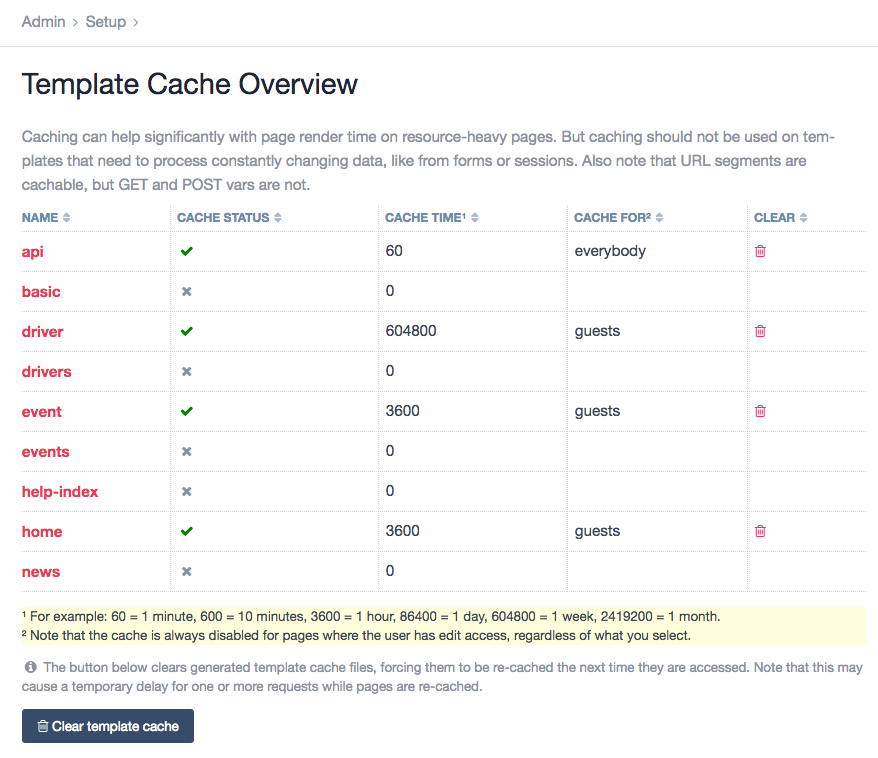
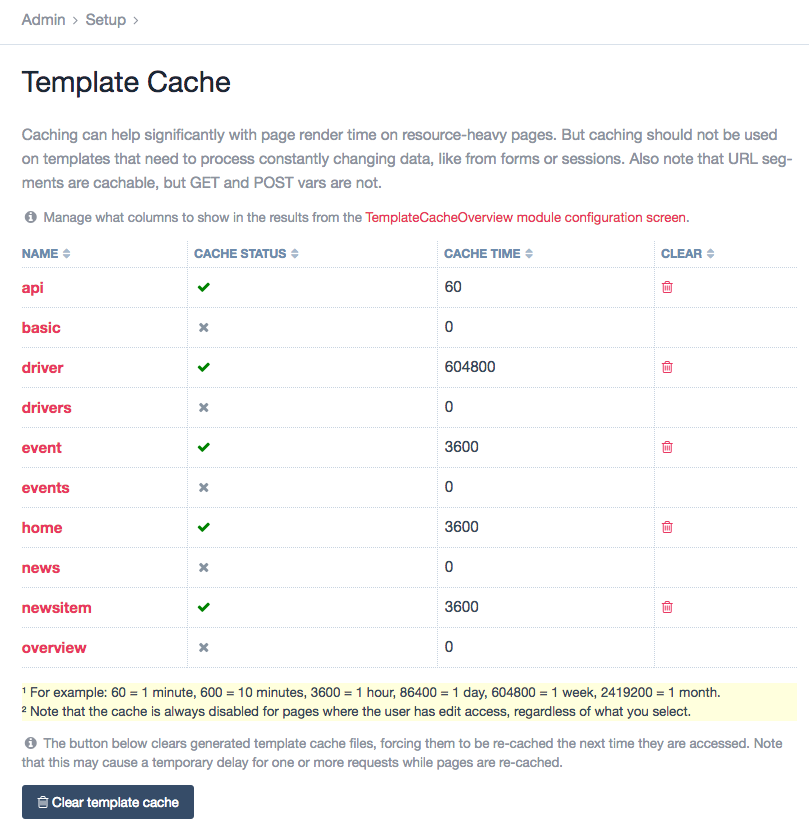
add module configuration

diff --git a/TemplateCacheOverviewConfig.php b/TemplateCacheOverviewConfig.php
@@ -1,0 +1,51 @@
+<?php namespace ProcessWire;
+
+/**
+* Class TemplateCacheOverviewConfig
+*/
+class TemplateCacheOverviewConfig extends ModuleConfig {
+
+  /**
+   * array Default config values
+   */
+  public function getDefaults() {
+    return array(
+      'columns' => array('cacheStatus', 'cacheTime')
+    );
+  }
+
+  /**
+   * array Default config values
+   */
+  public function getOptions() {
+    return array(
+      'cacheStatus' => $this->_('Cache Status'),
+      'cacheTime' => $this->_('Cache Time'),
+      'useCacheForUsers' => $this->_('Cache For'),
+      'noCacheGetVars' => $this->_('Excl. GET Vars'),
+      'noCachePostVars' => $this->_('Excl. POST Vars'),
+      'cacheExpire' => $this->_('On Page Save expire cache for ..')
+    );
+  }
+
+  /**
+   * Retrieves the list of config input fields
+   * Implementation of the ConfigurableModule interface
+   *
+   * @return InputfieldWrapper
+   */
+  public function getInputfields() {
+    // get inputfields
+    $inputfields = parent::getInputfields();
+
+    $field = $this->modules->get('InputfieldAsmSelect');
+    $field->attr('name', 'columns');
+    $field->label = $this->_('What columns to show in the results');
+    $field->description = $this->_('Select and sort the columns that will display in the template list table.');
+    $field->icon = 'table';
+    $field->addOptions($this->getOptions());
+    $inputfields->add($field);
+
+    return $inputfields;
+  }
+}

diff --git a/readme.md b/readme.md
@@ -1,12 +1,16 @@
 # ProcessWire Template Cache Overview
 
-Caching can help significantly with page render time on resource-heavy pages.
-But caching should not be used on templates that need to process constantly changing data,
-like from forms or sessions. Also note that URL segments are cachable, but GET and POST vars are not.
-
-Using this module you can view the template cache settings at once. 
+Using this module you can view all template cache settings at once. 
 E.g. cache status, cache time.
 Furthermore it adds the functionality to clear the entire template cache or just the template cache for a given template.
 Note that this may cause a temporary delay for one or more requests while pages are re-cached.
 
 ![Screenshot of the module's interface](https://raw.githubusercontent.com/justb3a/processwire-templatecacheoverview/master/screen.png)
+
+Caching can help significantly with page render time on resource-heavy pages.
+But caching should not be used on templates that need to process constantly changing data,
+like from forms or sessions. Also note that URL segments are cachable, but GET and POST vars are not.
+
+You're able to configure what columns to show in the results table:
+
+![Screenshot of the module's configuration settings](https://raw.githubusercontent.com/justb3a/processwire-templatecacheoverview/master/settings.png)
